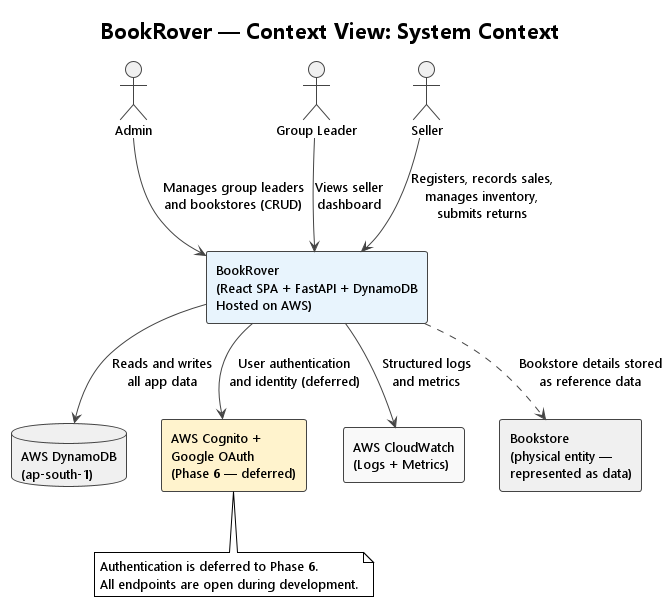
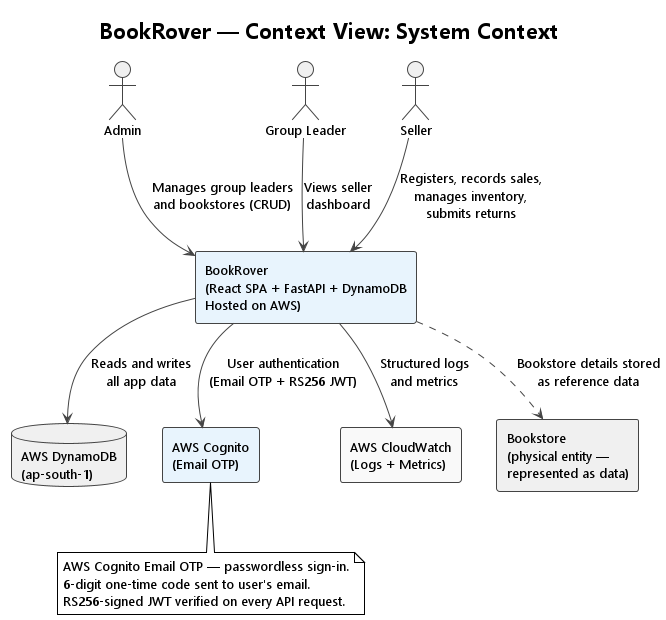
docs updated for cognito changes

diff --git a/docs/11_risks_and_technical_debt/risks_and_technical_debt.md b/docs/11_risks_and_technical_debt/risks_and_technical_debt.md
@@ -4,7 +4,7 @@
 
 | ID | Risk | Likelihood | Impact | Mitigation |
 |----|------|-----------|--------|------------|
-| R-1 | **No authentication in phases 1–5** | Medium | High (anyone with the URL can access the app) | Keep CloudFront URL private until Phase 6; do not share the URL publicly |
+| R-1 | **No authentication (phases 1–5)** | N/A | N/A | **RESOLVED (Phase 6)** — Cognito Email OTP enforced on all data endpoints. JWT required on every request. |
 | R-2 | **DynamoDB race condition on concurrent sales** | Low | High (negative inventory count) | Use DynamoDB `UpdateExpression` with `ConditionExpression` — atomic operation prevents concurrent overselling |
 | R-3 | **moto_server data loss on restart** | High | Low (dev only) | Expected behavior; automated tests use in-memory moto; data loss only affects manual dev testing sessions |
 | R-4 | **Lambda cold start latency** | Medium | Low (< 1 second) | Acceptable for non-latency-critical internal tool; future mitigation: Lambda provisioned concurrency if needed |
@@ -18,12 +18,12 @@
 
 | ID | Debt | Reason Accepted | Resolution Plan |
 |----|------|----------------|-----------------|
-| TD-1 | **No authentication (Phase 1–5)** | Scope control — auth adds significant complexity; core features must work first | Phase 6: Gmail OAuth via Cognito |
+| TD-1 | ~~No authentication (Phase 1–5)~~ | Scope control — auth adds significant complexity; core features must work first | **RESOLVED (Phase 6)** — Cognito Email OTP implemented; JWT verification on all data endpoints |
 | TD-2 | **No Terraform IaC (Phase 1–6)** | Manual Console setup first to understand resources before codifying them | Phase 7: Terraform modules to codify all resources |
 | TD-3 | **moto_server instead of DynamoDB Local** | Docker Desktop not yet permitted on developer's laptop | Replace with DynamoDB Local Docker once permissions obtained |
 | TD-4 | **No CI/CD pipeline** | Keeping setup simple in early phases | Future: GitHub Actions for lint, test, deploy on PR merge |
 | TD-5 | **No API versioning** | Single-client app; no versioning needed now | Add `/v1/` prefix if breaking changes become necessary |
-| TD-6 | **Role-selector placeholder for auth (dev mode)** | Auth deferred to Phase 6 | Remove placeholder; replace with Cognito JWT validation |
+| TD-6 | ~~Role-selector placeholder for auth (dev mode)~~ | Auth deferred to Phase 6 | **RESOLVED (Phase 6)** — Mock token restricted to `APP_ENV=dev` only; Cognito JWT validation active in prod |
 | TD-7 | **Dashboard aggregation done in Lambda (not pre-computed)** | Low traffic; real-time aggregation is acceptable now | If dashboard becomes slow, add DynamoDB Streams + pre-aggregated table |
 
 ---

diff --git a/docs/07_deployment_view/deployment_view.md b/docs/07_deployment_view/deployment_view.md
@@ -87,15 +87,16 @@ Run these steps in sequence — each step depends on the previous:
 |------|---------|--------|
 | 1 | IAM | Create `bookrover-lambda-execution-role` with DynamoDB + CloudWatch permissions |
 | 2 | DynamoDB | Create all 7 tables + GSIs in `ap-south-1` (dev tables first) |
-| 3 | Lambda | Create `bookrover-api-dev` function; runtime Python 3.12; attach IAM role; set env vars |
-| 4 | API Gateway | Create HTTP API; Lambda proxy integration; configure CORS |
-| 5 | S3 | Create `bookrover-frontend-dev` bucket; block public access; enable versioning |
-| 6 | ACM | Request SSL cert in **us-east-1** for your domain; DNS validate via Route 53 |
-| 7 | CloudFront | Create distribution; S3 origin (OAC) + API Gateway origin; attach cert; set error pages |
-| 8 | Route 53 | (Optional) Create A alias record → CloudFront distribution |
-| 9 | Deploy | Upload React build to S3; upload Lambda zip; smoke test via CloudFront URL |
+| 3 | Lambda | Create `bookrover-api-dev` function; runtime Python 3.12; attach IAM role; set env vars (add Cognito vars after Step 4) |
+| 4 | Cognito | Create User Pool `bookrover-prod`; configure Email OTP app client (`ALLOW_USER_AUTH`); note Pool ID and Client ID; update Lambda env vars |
+| 5 | API Gateway | Create HTTP API; Lambda proxy integration; configure CORS |
+| 6 | S3 | Create `bookrover-frontend-dev` bucket; block public access; enable versioning |
+| 7 | ACM | Request SSL cert in **us-east-1** for your domain; DNS validate via Route 53 |
+| 8 | CloudFront | Create distribution; S3 origin (OAC) + API Gateway origin; attach cert; set error pages |
+| 9 | Route 53 | (Optional) Create A alias record → CloudFront distribution |
+| 10 | Deploy | Upload React build to S3; upload Lambda zip; smoke test via CloudFront URL |
 
-Detailed step-by-step Console instructions will be in `docs/aws-setup-guide.md` (Phase 4).
+Detailed step-by-step Console instructions are in [operator_guide.md](operator_guide.md).
 
 ---
 
@@ -110,6 +111,7 @@ Detailed step-by-step Console instructions will be in `docs/aws-setup-guide.md` 
 | CloudFront | Global edge (configured in `us-east-1`) | CDN delivers from nearest edge node to user |
 | ACM | **`us-east-1`** | AWS requirement for CloudFront certificates |
 | CloudWatch | `ap-south-1` (Mumbai) | Same region as Lambda for log delivery |
+| Cognito | `ap-south-1` (Mumbai) | Co-located with Lambda; JWKS endpoint same region as JWT verifier |
 
 ---
 

diff --git a/docs/03_context_and_scope/context_and_scope.md b/docs/03_context_and_scope/context_and_scope.md
@@ -25,13 +25,13 @@ BookRover sits at the centre of a consignment book-selling workflow. The diagram
             │                                   │
             ▼                                   ▼
   ┌──────────────────┐               ┌──────────────────────┐
-  │  Bookstore       │               │  Gmail / Google      │
-  │  (external data) │               │  (Auth - Phase 6)    │
+  │  Bookstore       │               │  AWS Cognito         │
+  │  (external data) │               │  (Email OTP)         │
   │                  │               │                      │
-  │ Represented as   │               │ Gmail OAuth for      │
-  │ data in the app. │               │ identity federation  │
-  │ Not a direct     │               │ via AWS Cognito      │
-  │ app user.        │               │ (deferred)           │
+  │ Represented as   │               │ Passwordless sign-in │
+  │ data in the app. │               │ via 6-digit OTP.     │
+  │ Not a direct     │               │ JWT issued on code   │
+  │ app user.        │               │ verification.        │
   └──────────────────┘               └──────────────────────┘
 ```
 
@@ -69,7 +69,7 @@ BookRover sits at the centre of a consignment book-selling workflow. The diagram
 | External System | Direction | Protocol | Purpose |
 |----------------|-----------|----------|---------|
 | **User's phone browser** | Inbound | HTTPS (via CloudFront) | All user interactions |
-| **Gmail / Google OAuth** | Inbound (Phase 6) | OAuth 2.0 | Seller and admin authentication |
+| **AWS Cognito (Email OTP)** | Inbound | HTTPS (AWS Amplify SDK / Cognito API) | Seller and admin authentication — passwordless sign-in via 6-digit one-time code |
 | **AWS DynamoDB** | Outbound | AWS SDK (boto3) | Persistent data storage |
 | **AWS CloudWatch** | Outbound | AWS SDK | Structured logging and metrics |
 

diff --git a/docs/09_architecture_decisions/architecture_decisions.md b/docs/09_architecture_decisions/architecture_decisions.md
@@ -120,15 +120,17 @@ Each Architecture Decision Record (ADR) is maintained as a separate file for cla
 
 ## ADR-007: Defer Authentication to Phase 6
 
-**Status**: Accepted (temporary)
+**Status**: Superseded — Resolved in Phase 6
 
 **Context**: Gmail OAuth via Cognito is needed for production use. Setting it up early adds complexity before core features exist.
 
-**Decision**: Build all features first with a role-selector placeholder in dev mode. Add Cognito + Google OAuth in Phase 6.
+**Decision**: Build all features first with a role-selector placeholder in dev mode. Add Cognito Email OTP in Phase 6.
 
 **Rationale**: Separating concerns — feature completeness first, then security layer. This is a controlled, intentional deferral — not neglect. All API endpoints are designed with authentication in mind (user identity flows from seller_id in the path).
 
 **Risk**: App is not secured until Phase 6. Mitigated by keeping the app private (not publicized) until auth is in place.
+
+**Resolution (Phase 6)**: AWS Cognito Email OTP implemented. RS256 JWT verified on every request. `POST /dev/mock-token` disabled in prod.
 
 ---
 

diff --git a/docs/02_constraints/constraints.md b/docs/02_constraints/constraints.md
@@ -21,7 +21,7 @@
 |------------|--------|
 | **Cost must stay near $0/month** | Project is self-funded by a group of friends; no budget for hosting |
 | **No Docker Desktop initially** | Developer's laptop requires IT permissions for Docker installation; use `moto_server` as interim DynamoDB substitute |
-| **Authentication deferred to Phase 6** | Gmail/Google OAuth via Cognito will be added after core features are working. Development uses a role-selector placeholder. |
+| **Authentication implemented in Phase 6** | AWS Cognito Email OTP — passwordless sign-in via 6-digit one-time code. Production verifies RS256 JWTs; dev uses `POST /dev/mock-token` (disabled in prod). |
 | **No ALB / multi-AZ configuration** | Lambda + API Gateway are inherently multi-AZ; ALB adds cost (~$16/month minimum) without benefit at this scale |
 | **Route 53 / custom domain deferred** | $0.50/month cost is avoided until real users need a memorable URL; use free CloudFront URL in the meantime |
 | **Terraform IaC deferred to Phase 7** | Manual AWS Console setup first for learning; Terraform codifies what is already understood |

diff --git a/docs/09_architecture_decisions/ADR-007_Defer_Authentication.md b/docs/09_architecture_decisions/ADR-007_Defer_Authentication.md
@@ -1,6 +1,6 @@
 # ADR-007: Defer Authentication to Phase 6
 
-**Status**: Accepted (temporary — will be resolved in Phase 6)
+**Status**: Superseded — Resolved in Phase 6
 
 ---
 
@@ -40,6 +40,6 @@ The app is unprotected until Phase 6. Mitigation: the CloudFront URL is not shar
 
 ---
 
-## Resolution Plan
+## Resolution
 
-Phase 6: AWS Cognito User Pool + Google Identity Provider + JWT authorizer on API Gateway. Frontend login via Cognito Hosted UI or custom React login flow.
+**Implemented in Phase 6:** AWS Cognito Email OTP (passwordless). Users enter their email; Cognito sends a 6-digit one-time code; the frontend verifies it via the Amplify SDK and receives a signed RS256 JWT (IdToken). All backend endpoints verify the JWT on every request via `CognitoJWTVerifier`. No Google/OAuth federation — email is the identity provider. The `POST /dev/mock-token` endpoint (dev only) is explicitly blocked when `APP_ENV=prod`.

diff --git a/docs/04_solution_strategy/solution_strategy.md b/docs/04_solution_strategy/solution_strategy.md
@@ -109,6 +109,6 @@ To support development and testing without AWS charges, the local stack mirrors 
 | Lambda + API Gateway | `uvicorn` running FastAPI on `localhost:8000` |
 | DynamoDB | `moto_server` on `localhost:8001` (no Docker needed) or DynamoDB Local via Docker |
 | S3 + CloudFront | React Dev Server on `localhost:3000` |
-| Cognito | Role-selector placeholder (dev mode only) |
+| Cognito | Email OTP authentication (prod); `POST /dev/mock-token` (dev only — disabled in prod) |
 
 All automated tests (unit + integration) use `moto` in-memory mocking — no running process needed.
